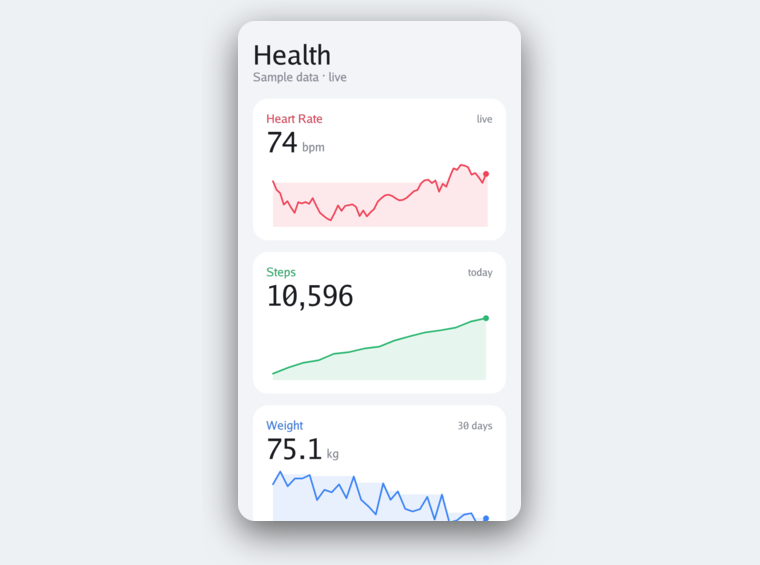
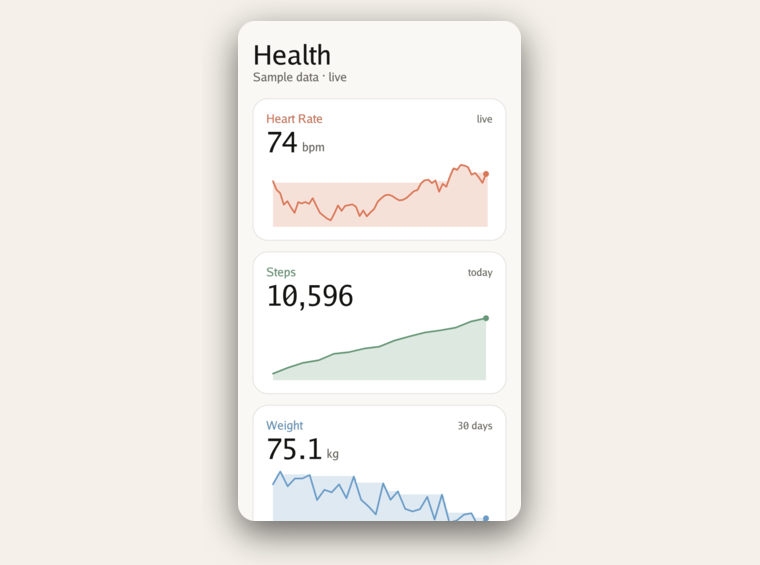
theme: warm default identity + categorical palette; reskin health onto it
The theme token layer existed but its default was a generic Material-ish blue
that no example used. Give it a real identity — the direction we want gophics to
own: warm neutrals, a single clay accent, calm surfaces — in both Light and
Dark, and add the tokens a data UI needs: Success/Warning and a 6-slot
categorical Chart palette (clay/cactus/sky/heather/kraft/fig), read positionally
with Theme.ChartAt so a re-theme restyles charts too.

Reskin examples/health onto it as the concrete proof: every color now comes from
theme.Of(ctx) instead of hardcoded vars — surfaces, text, and the per-metric
accents (from Chart). The dashboard and detail pages read the theme; the root
provides theme.Auto(ctx). The payoff is that health, previously light-only, now
follows the platform light/dark scheme for FREE from one codebase, and its whole
look is retargetable by swapping the tokens (a team could push it Material-ish,
Apple-ish, or to their brand without touching call sites). Nothing about the
framework's behavior changed — this is purely the styled layer.

Also fixes a latent build-thumbs.sh bug the reskin surfaced: the health frame's
`read -r w h < <(magick -format '%w %h' ...)` got no trailing newline, so read
returned non-zero and `set -e` aborted the script — health.png had been stuck
since Aug 4. Added the newline; warmed the frame backdrop to match; regenerated.

Claude-Session: https://claude.ai/code/session_01FDRtFebtXHhhwph1qgssTD

diff --git a/examples/health/ui/app.go b/examples/health/ui/app.go
@@ -18,39 +18,33 @@ import (
 	"github.com/doug/gophics/geom"
 	"github.com/doug/gophics/layout"
 	"github.com/doug/gophics/paint"
+	"github.com/doug/gophics/theme"
 	"github.com/doug/gophics/widget"
 )
 
-// Palette — a light, calm health-app look.
-var (
-	BG      = paint.RGB(0.95, 0.96, 0.975)
-	surface = paint.RGB(1, 1, 1)
-	ink     = paint.RGB(0.11, 0.12, 0.14)
-	sub     = paint.RGB(0.55, 0.57, 0.62)
-	white   = paint.RGB(1, 1, 1)
-	heart   = paint.RGB(0.94, 0.27, 0.35)
-	steps   = paint.RGB(0.18, 0.72, 0.45)
-	weight  = paint.RGB(0.24, 0.52, 0.96)
-	sleep   = paint.RGB(0.45, 0.40, 0.86)
-)
+// BG is the window background used at Start, before a widget context exists (the
+// mobile bind passes it as Config.Background). Inside the tree every color comes
+// from theme.Of(ctx), so the whole app also follows the platform light/dark
+// scheme for free. This matches the light identity's background.
+var BG = theme.Light().Bg
 
-// spec is one metric's presentation: label, unit, accent, formatting, chart.
+// spec is one metric's presentation: label, unit, chart-accent slot, chart.
 type spec struct {
 	m          Metric
 	label      string
 	unit       string
 	caption    string
-	accent     paint.Color
+	accentIdx  int // slot in theme.Theme.Chart — resolved per active theme
 	cardWindow int // last N samples shown on the dashboard card (0 = all)
 	fmtVal     func(float64) string
 	draw       func(c paint.Canvas, size geom.Size, xs []Sample, accent paint.Color)
 }
 
 var specs = []spec{
-	{HeartRate, "Heart Rate", "bpm", "live", heart, 0, fmt0, drawLineArea},
-	{Steps, "Steps", "", "today", steps, 0, fmtInt, drawLineArea},
-	{Weight, "Weight", "kg", "30 days", weight, 30, fmt1, drawLineArea},
-	{Sleep, "Sleep", "h", "7 nights", sleep, 7, fmt1, drawBars},
+	{HeartRate, "Heart Rate", "bpm", "live", 0, 0, fmt0, drawLineArea},
+	{Steps, "Steps", "", "today", 1, 0, fmtInt, drawLineArea},
+	{Weight, "Weight", "kg", "30 days", 2, 30, fmt1, drawLineArea},
+	{Sleep, "Sleep", "h", "7 nights", 3, 7, fmt1, drawBars},
 }
 
 // specFor returns a metric's spec (specs is indexed by Metric).
@@ -118,17 +112,27 @@ func (s *healthState) Tick(dt float64) bool {
 }
 
 func (s *healthState) Build(ctx widget.Ctx) widget.Widget {
+	// Resolve the theme from the platform color scheme and provide it to the
+	// tree, so every page below reads colors with theme.Of(ctx) and the whole
+	// app follows light/dark automatically.
+	th := theme.Auto(ctx)
+	var content widget.Widget
 	if !s.connected {
-		return phoneFrame(s.onboarding())
+		content = s.onboarding(th)
+	} else {
+		// The dashboard is the Navigator's Home so it (and pushed detail pages)
+		// can reach the Nav handle. The provider lives here at the root and keeps
+		// streaming regardless of which page is on top.
+		home := widget.Widget(dashboard{p: s.p})
+		if m, ok := metricByView(os.Getenv("HEALTH_VIEW")); ok {
+			home = detailPage{p: s.p, m: m} // deep-link for screenshots
+		}
+		content = widget.Navigator{Home: home}
 	}
-	// The dashboard is the Navigator's Home so it (and pushed detail pages) can
-	// reach the Nav handle. The provider lives here at the root and keeps
-	// streaming regardless of which page is on top.
-	home := widget.Widget(dashboard{p: s.p})
-	if m, ok := metricByView(os.Getenv("HEALTH_VIEW")); ok {
-		home = detailPage{p: s.p, m: m} // deep-link for screenshots
+	return widget.Provide[theme.Theme]{
+		Value: th,
+		Child: widget.Fill{Color: th.Bg, Child: phoneFrame(content)},
 	}
-	return phoneFrame(widget.Navigator{Home: home})
 }
 
 // maxContentW caps the app's content width so a phone-shaped UI doesn't stretch
@@ -153,24 +157,24 @@ func phoneFrame(child widget.Widget) widget.Widget {
 	}}
 }
 
-func (s *healthState) onboarding() widget.Widget {
+func (s *healthState) onboarding(th theme.Theme) widget.Widget {
 	connect := widget.Interactive{
 		Handler: widget.Handler{OnTap: func() { s.SetState(func() { s.connected = true }) }},
-		Child: widget.Decorated{Color: heart, Radius: 14, Child: widget.Padding{
+		Child: widget.Decorated{Color: th.Primary, Radius: 14, Child: widget.Padding{
 			Insets: geom.InsetsSymmetric(28, 14),
-			Child:  widget.Text{S: "Connect " + s.p.Name(), Size: 16, Color: white},
+			Child:  widget.Text{S: "Connect " + s.p.Name(), Size: 16, Color: th.OnPrimary},
 		}},
 	}
-	return widget.Fill{Color: BG, Child: widget.Align{X: 0.5, Y: 0.5, Child: widget.Padding{
+	return widget.Align{X: 0.5, Y: 0.5, Child: widget.Padding{
 		All: 32,
 		Child: widget.Flex{CrossAlign: layout.CrossCenter, Children: []widget.Widget{
-			widget.Text{S: "♥", Size: 72, Color: heart},
-			widget.Padding{Insets: geom.Insets{Top: 12}, Child: widget.Text{S: "Health", Size: 34, Color: ink}},
+			widget.Text{S: "♥", Size: 72, Color: th.Primary},
+			widget.Padding{Insets: geom.Insets{Top: 12}, Child: widget.Text{S: "Health", Size: 34, Color: th.Text}},
 			widget.Padding{Insets: geom.Insets{Top: 6, Bottom: 26}, Child: widget.Text{
-				S: "Connect your data to see it live.", Size: 15, Color: sub}},
+				S: "Connect your data to see it live.", Size: 15, Color: th.Muted}},
 			connect,
 		}},
-	}}}
+	}}
 }
 
 // --- dashboard page (Navigator Home) ---
@@ -178,13 +182,14 @@ func (s *healthState) onboarding() widget.Widget {
 type dashboard struct{ p Provider }
 
 func (d dashboard) Build(ctx widget.Ctx) widget.Widget {
+	th := theme.Of(ctx)
 	nav := widget.MustOf[widget.Nav](ctx)
-	children := []widget.Widget{header(d.p)}
+	children := []widget.Widget{header(th, d.p)}
 	for _, sp := range specs {
 		m := sp.m
-		children = append(children, card(d.p, sp, func() { nav.Push(detailPage{p: d.p, m: m}) }))
+		children = append(children, card(th, d.p, sp, func() { nav.Push(detailPage{p: d.p, m: m}) }))
 	}
-	return widget.Fill{Color: BG, Child: widget.Scroll{
+	return widget.Fill{Color: th.Bg, Child: widget.Scroll{
 		Child: widget.Padding{
 			Insets: geom.InsetsSymmetric(18, 22),
 			Child:  widget.Flex{CrossAlign: layout.CrossStretch, Children: children},
@@ -192,35 +197,36 @@ func (d dashboard) Build(ctx widget.Ctx) widget.Widget {
 	}}
 }
 
-func header(p Provider) widget.Widget {
+func header(th theme.Theme, p Provider) widget.Widget {
 	return widget.Padding{
 		Insets: geom.Insets{Bottom: 18},
 		Child: widget.Flex{CrossAlign: layout.CrossStart, Children: []widget.Widget{
-			widget.Text{S: "Health", Size: 32, Color: ink},
-			widget.Text{S: p.Name(), Size: 14, Color: sub},
+			widget.Text{S: "Health", Size: 32, Color: th.Text},
+			widget.Text{S: p.Name(), Size: 14, Color: th.Muted},
 		}},
 	}
 }
 
 // card renders one dashboard metric card, tappable through to its detail page.
-func card(p Provider, sp spec, onTap func()) widget.Widget {
+func card(th theme.Theme, p Provider, sp spec, onTap func()) widget.Widget {
 	val, _ := p.Latest(sp.m)
 	series := lastN(p.Series(sp.m), sp.cardWindow)
+	accent := th.ChartAt(sp.accentIdx)
 
 	title := widget.Row(
-		widget.Text{S: sp.label, Size: 14, Color: sp.accent},
+		widget.Text{S: sp.label, Size: 14, Color: accent},
 		widget.Spacer(),
-		widget.Text{S: sp.caption, Size: 12, Color: sub},
+		widget.Text{S: sp.caption, Size: 12, Color: th.Muted},
 	)
 	value := widget.Row(
-		widget.Text{S: sp.fmtVal(val.V), Size: 34, Color: ink},
-		widget.Padding{Insets: geom.Insets{Left: 5, Top: 12}, Child: widget.Text{S: sp.unit, Size: 14, Color: sub}},
+		widget.Text{S: sp.fmtVal(val.V), Size: 34, Color: th.Text},
+		widget.Padding{Insets: geom.Insets{Left: 5, Top: 12}, Child: widget.Text{S: sp.unit, Size: 14, Color: th.Muted}},
 	)
 	chart := widget.Expand(widget.Canvas{Clip: true, Draw: func(c paint.Canvas, size geom.Size) {
-		sp.draw(c, size, series, sp.accent)
+		sp.draw(c, size, series, accent)
 	}})
 
-	body := widget.Decorated{Color: surface, Radius: 18, Child: widget.Padding{
+	body := widget.Decorated{Color: th.Surface, Radius: th.Radius + 8, BorderColor: th.Border, BorderWidth: 1, Child: widget.Padding{
 		All:   16,
 		Child: widget.Flex{CrossAlign: layout.CrossStretch, Children: []widget.Widget{title, value, chart}},
 	}}

diff --git a/theme/theme.go b/theme/theme.go
@@ -32,47 +32,85 @@ type Theme struct {
 	OnPrimary    paint.Color // content on Primary
 	Text         paint.Color
 	Muted        paint.Color
+	Success      paint.Color
+	Warning      paint.Color
 	Danger       paint.Color
 	Border       paint.Color
 	Selection    paint.Color
+	// Chart is a categorical palette for data series and per-item accents,
+	// read positionally with ChartAt so a re-theme restyles charts too.
+	Chart [6]paint.Color
 
 	Radius float32
 }
 
-// Light is the default light theme.
+// ChartAt returns the i-th categorical color, wrapping if i is out of range.
+func (t Theme) ChartAt(i int) paint.Color { return t.Chart[((i%6)+6)%6] }
+
+// Light is the default light theme — the gophics identity: warm neutrals, a
+// single clay accent, and a muted categorical palette. Opinionated on purpose
+// (apps look considered out of the box) and just a struct (copy + tweak to
+// re-theme, or swap wholesale).
 func Light() Theme {
 	return Theme{
-		Bg:           paint.RGB(0.97, 0.97, 0.96),
+		Bg:           paint.RGB(0.980, 0.976, 0.961), // warm off-white
 		Surface:      paint.RGB(1, 1, 1),
-		SurfaceHover: paint.RGB(0.94, 0.94, 0.95),
-		Primary:      paint.RGB(0.13, 0.45, 0.90),
+		SurfaceHover: paint.RGB(0.957, 0.949, 0.929),
+		Primary:      paint.RGB(0.851, 0.467, 0.341), // clay
 		OnPrimary:    paint.RGB(1, 1, 1),
-		Text:         paint.RGB(0.10, 0.10, 0.12),
-		Muted:        paint.RGB(0.45, 0.46, 0.50),
-		Danger:       paint.RGB(0.80, 0.25, 0.25),
-		Border:       paint.RGB(0.85, 0.85, 0.87),
-		Selection:    paint.Color{R: 0.13, G: 0.45, B: 0.90, A: 0.30},
-		Radius:       8,
+		Text:         paint.RGB(0.086, 0.086, 0.078), // warm near-black
+		Muted:        paint.RGB(0.427, 0.416, 0.384),
+		Success:      paint.RGB(0.361, 0.545, 0.376),
+		Warning:      paint.RGB(0.831, 0.639, 0.290),
+		Danger:       paint.RGB(0.776, 0.361, 0.318),
+		Border:       paint.RGB(0.898, 0.886, 0.859),
+		Selection:    paint.Color{R: 0.851, G: 0.467, B: 0.341, A: 0.24},
+		Chart:        lightChart,
+		Radius:       10,
 	}
 }
 
-// Dark is the default dark theme.
+// Dark is the default dark theme — the same identity on a warm near-black.
 func Dark() Theme {
 	return Theme{
 		Dark:         true,
-		Bg:           paint.RGB(0.09, 0.10, 0.12),
-		Surface:      paint.RGB(0.14, 0.15, 0.18),
-		SurfaceHover: paint.RGB(0.18, 0.20, 0.24),
-		Primary:      paint.RGB(0.40, 0.64, 0.98),
-		OnPrimary:    paint.RGB(0.05, 0.08, 0.12),
-		Text:         paint.RGB(0.92, 0.93, 0.95),
-		Muted:        paint.RGB(0.55, 0.57, 0.62),
-		Danger:       paint.RGB(0.92, 0.45, 0.45),
-		Border:       paint.RGB(0.26, 0.28, 0.33),
-		Selection:    paint.Color{R: 0.40, G: 0.64, B: 0.98, A: 0.35},
-		Radius:       8,
+		Bg:           paint.RGB(0.086, 0.086, 0.078), // warm near-black
+		Surface:      paint.RGB(0.137, 0.133, 0.125),
+		SurfaceHover: paint.RGB(0.180, 0.176, 0.165),
+		Primary:      paint.RGB(0.878, 0.522, 0.396), // clay, lifted for dark
+		OnPrimary:    paint.RGB(0.086, 0.086, 0.078),
+		Text:         paint.RGB(0.949, 0.937, 0.914), // warm off-white
+		Muted:        paint.RGB(0.667, 0.647, 0.612),
+		Success:      paint.RGB(0.451, 0.647, 0.451),
+		Warning:      paint.RGB(0.878, 0.694, 0.361),
+		Danger:       paint.RGB(0.851, 0.451, 0.408),
+		Border:       paint.RGB(0.271, 0.263, 0.247),
+		Selection:    paint.Color{R: 0.878, G: 0.522, B: 0.396, A: 0.30},
+		Chart:        darkChart,
+		Radius:       10,
 	}
 }
+
+// The muted categorical palette (clay, cactus, sky, heather, kraft, fig),
+// tuned per scheme for contrast against the background.
+var (
+	lightChart = [6]paint.Color{
+		paint.RGB(0.851, 0.467, 0.341), // clay
+		paint.RGB(0.400, 0.596, 0.463), // cactus
+		paint.RGB(0.416, 0.608, 0.780), // sky
+		paint.RGB(0.545, 0.478, 0.706), // heather
+		paint.RGB(0.780, 0.545, 0.361), // kraft
+		paint.RGB(0.639, 0.400, 0.439), // fig
+	}
+	darkChart = [6]paint.Color{
+		paint.RGB(0.878, 0.522, 0.396),
+		paint.RGB(0.478, 0.678, 0.545),
+		paint.RGB(0.494, 0.671, 0.843),
+		paint.RGB(0.627, 0.561, 0.784),
+		paint.RGB(0.843, 0.616, 0.435),
+		paint.RGB(0.718, 0.478, 0.518),
+	}
+)
 
 // Auto picks Light or Dark from the platform color scheme.
 func Auto(ctx widget.Ctx) Theme {

diff --git a/examples/health/ui/detail.go b/examples/health/ui/detail.go
@@ -4,6 +4,7 @@ import (
 	"github.com/doug/gophics/geom"
 	"github.com/doug/gophics/layout"
 	"github.com/doug/gophics/paint"
+	"github.com/doug/gophics/theme"
 	"github.com/doug/gophics/widget"
 )
 
@@ -47,6 +48,8 @@ func (s *detailState) Build(ctx widget.Ctx) widget.Widget {
 	cfg := s.W()
 	p, m := cfg.p, cfg.m
 	sp := specFor(m)
+	th := theme.Of(ctx)
+	accent := th.ChartAt(sp.accentIdx)
 	nav := widget.MustOf[widget.Nav](ctx)
 
 	ranges := rangesFor(m)
@@ -62,14 +65,14 @@ func (s *detailState) Build(ctx widget.Ctx) widget.Widget {
 
 	back := widget.Interactive{
 		Handler: widget.Handler{OnTap: nav.Pop},
-		Child:   widget.Text{S: "‹  Back", Size: 15, Color: sp.accent},
+		Child:   widget.Text{S: "‹  Back", Size: 15, Color: accent},
 	}
 	head := widget.Flex{CrossAlign: layout.CrossStart, Children: []widget.Widget{
 		widget.Padding{Insets: geom.Insets{Bottom: 16}, Child: back},
-		widget.Text{S: sp.label, Size: 15, Color: sp.accent},
+		widget.Text{S: sp.label, Size: 15, Color: accent},
 		widget.Row(
-			widget.Text{S: sp.fmtVal(val.V), Size: 40, Color: ink},
-			widget.Padding{Insets: geom.Insets{Left: 6, Top: 16}, Child: widget.Text{S: sp.unit, Size: 15, Color: sub}},
+			widget.Text{S: sp.fmtVal(val.V), Size: 40, Color: th.Text},
+			widget.Padding{Insets: geom.Insets{Left: 6, Top: 16}, Child: widget.Text{S: sp.unit, Size: 15, Color: th.Muted}},
 		),
 	}}
 
@@ -79,7 +82,7 @@ func (s *detailState) Build(ctx widget.Ctx) widget.Widget {
 		chips := make([]widget.Widget, len(ranges))
 		for i, r := range ranges {
 			idx := i
-			chips[i] = chip(r.label, i == s.rangeIdx, sp.accent, func() {
+			chips[i] = chip(th, r.label, i == s.rangeIdx, accent, func() {
 				s.SetState(func() { s.rangeIdx = idx })
 			})
 		}
@@ -88,31 +91,31 @@ func (s *detailState) Build(ctx widget.Ctx) widget.Widget {
 
 	kids = append(kids, widget.Padding{
 		Insets: geom.Insets{Top: 14, Bottom: 18},
-		Child: widget.Sized{H: 230, Child: widget.Decorated{Color: surface, Radius: 18, Child: widget.Padding{
+		Child: widget.Sized{H: 230, Child: widget.Decorated{Color: th.Surface, Radius: th.Radius + 8, BorderColor: th.Border, BorderWidth: 1, Child: widget.Padding{
 			All: 14,
 			Child: widget.Canvas{Clip: true, Draw: func(c paint.Canvas, size geom.Size) {
-				sp.draw(c, size, series, sp.accent)
+				sp.draw(c, size, series, accent)
 			}},
 		}}},
 	})
 
 	kids = append(kids, widget.Row(
-		statBlock("Min", sp.fmtVal(lo)),
-		statBlock("Avg", sp.fmtVal(avg)),
-		statBlock("Max", sp.fmtVal(hi)),
+		statBlock(th, "Min", sp.fmtVal(lo)),
+		statBlock(th, "Avg", sp.fmtVal(avg)),
+		statBlock(th, "Max", sp.fmtVal(hi)),
 	))
 
-	return widget.Fill{Color: BG, Child: widget.Scroll{Child: widget.Padding{
+	return widget.Fill{Color: th.Bg, Child: widget.Scroll{Child: widget.Padding{
 		Insets: geom.InsetsSymmetric(18, 22),
 		Child:  widget.Flex{CrossAlign: layout.CrossStretch, Children: kids},
 	}}}
 }
 
 // chip is a pill-shaped range tab.
-func chip(label string, selected bool, accent paint.Color, onTap func()) widget.Widget {
-	fg, bgc := sub, paint.RGB(0.90, 0.91, 0.93)
+func chip(th theme.Theme, label string, selected bool, accent paint.Color, onTap func()) widget.Widget {
+	fg, bgc := th.Muted, th.SurfaceHover
 	if selected {
-		fg, bgc = white, accent
+		fg, bgc = th.OnPrimary, accent
 	}
 	return widget.Interactive{
 		Handler: widget.Handler{OnTap: onTap},
@@ -124,10 +127,10 @@ func chip(label string, selected bool, accent paint.Color, onTap func()) widget.
 }
 
 // statBlock is one equal-width Min/Avg/Max cell.
-func statBlock(label, value string) widget.Widget {
+func statBlock(th theme.Theme, label, value string) widget.Widget {
 	return widget.Expand(widget.Flex{CrossAlign: layout.CrossStart, Children: []widget.Widget{
-		widget.Text{S: value, Size: 22, Color: ink},
-		widget.Text{S: label, Size: 12, Color: sub},
+		widget.Text{S: value, Size: 22, Color: th.Text},
+		widget.Text{S: label, Size: 12, Color: th.Muted},
 	}})
 }
 
